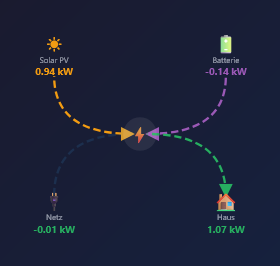
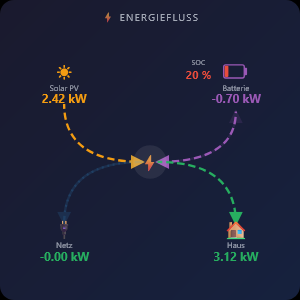
.

diff --git a/widgets/vis-2-widgets-sigenergy/js/vis-2-widgets-sigenergy.js b/widgets/vis-2-widgets-sigenergy/js/vis-2-widgets-sigenergy.js
@@ -2,7 +2,7 @@
     ioBroker.vis vis-2-widgets-sigenergy — Widget-Set
     4 Widgets: Energiefluss · Akku-Status · Echtzeit-Leistung · Statistiken
 
-    version: "1.5.1"
+    version: "1.5.2"
     Copyright 2026 ssbingo [email redacted]
 */
 "use strict";
@@ -39,7 +39,7 @@ if (typeof systemDictionary !== "undefined") {
 }
 
 vis.binds["vis-2-widgets-sigenergy"] = {
-    version: "1.5.1",
+    version: "1.5.2",
 
     showVersion: function () {
         if (vis.binds["vis-2-widgets-sigenergy"].version) {

diff --git a/README.md b/README.md
@@ -129,6 +129,10 @@ The horizontal backbone line and the vertical drop lines show animated dashes th
 | sig_darkmode | checkbox | true | Dark / Light mode |
 | oid_micro1 … oid_micro20 | OID | — | Anchor OID per device (e.g. sigenergy.0.sigenmicro.11.outputPower) |
 
+![SigenMicro Übersicht — Übersichts-Tab](img/widget-microinverter_01.png)
+
+![SigenMicro Übersicht — Detail-Tab](img/widget-microinverter_02.png)
+
 **OIDs (per device, prefix sigenergy.0.sigenmicro.<slaveId>):**
 modelType, serialNumber, firmwareVersion, runningState, outputPower, gridFrequency, temperature, mppt1Voltage, mppt1Current, mppt1Power, mppt2Voltage, mppt2Current, mppt2Power, dailyYield, totalYield
 
@@ -138,6 +142,10 @@ modelType, serialNumber, firmwareVersion, runningState, outputPower, gridFrequen
 All widgets support a **light and dark mode**, switchable via the widget setting `Dark mode`.
 
 ## Changelog
+### 1.5.2 (2026-03-17)
+* (ssbingo) Widget screenshots added: SigenMicro Overview (widget-microinverter_01.png, widget-microinverter_02.png)
+* (ssbingo) Energy Flow screenshot updated (widget-energiefluss.png)
+
 ### 1.5.1 (2026-03-17)
 * (ssbingo) Bugfix: Widget 8 code placed correctly inside vis.binds object — all widgets visible again
 

diff --git a/doc/de/README.md b/doc/de/README.md
@@ -129,6 +129,10 @@ Die waagerechte Backbone-Linie und die senkrechten Stichleitungen zeigen animier
 | sig_darkmode | Checkbox | true | Dunkel- / Hellmodus |
 | oid_micro1 … oid_micro20 | OID | — | Anker-OID je Gerät (z.B. sigenergy.0.sigenmicro.11.outputPower) |
 
+![SigenMicro Übersicht — Übersichts-Tab](../../img/widget-microinverter_01.png)
+
+![SigenMicro Übersicht — Detail-Tab](../../img/widget-microinverter_02.png)
+
 **OIDs (je Gerät, Präfix sigenergy.0.sigenmicro.<slaveId>):**
 modelType, serialNumber, firmwareVersion, runningState, outputPower, gridFrequency, temperature, mppt1Voltage, mppt1Current, mppt1Power, mppt2Voltage, mppt2Current, mppt2Power, dailyYield, totalYield
 
@@ -138,6 +142,10 @@ modelType, serialNumber, firmwareVersion, runningState, outputPower, gridFrequen
 Alle Widgets unterstützen einen **Hell- und Dunkelmodus**, der über die Widget-Einstellung `Dunkelmodus` umgeschaltet werden kann.
 
 ## Changelog
+### 1.5.2 (2026-03-17)
+* (ssbingo) Widget-Screenshots ergänzt: SigenMicro Übersicht (widget-microinverter_01.png, widget-microinverter_02.png)
+* (ssbingo) Energiefluss-Screenshot aktualisiert (widget-energiefluss.png)
+
 ### 1.5.1 (2026-03-17)
 * (ssbingo) Bugfix: Widget 8 code placed correctly inside vis.binds object — all widgets visible again
 

diff --git a/doc/es/README.md b/doc/es/README.md
@@ -119,6 +119,10 @@ Vista general y detallada de todos los microinversores SigenMicro en el bus Modb
 Todos los widgets admiten un **modo claro y oscuro**, conmutable mediante el ajuste de widget `Modo oscuro`.
 
 ## Changelog
+### 1.5.2 (2026-03-17)
+* (ssbingo) Capturas de pantalla de widgets añadidas: vista general SigenMicro
+* (ssbingo) Captura de flujo de energía actualizada
+
 ### 1.5.1 (2026-03-17)
 * (ssbingo) Bugfix: Widget 8 code placed correctly inside vis.binds object — all widgets visible again
 

diff --git a/doc/fr/README.md b/doc/fr/README.md
@@ -118,6 +118,10 @@ Vue d'ensemble et vue détaillée de tous les micro-onduleurs SigenMicro sur le 
 Tous les widgets prennent en charge un **mode clair et sombre**, commutable via le paramètre de widget `Mode sombre`.
 
 ## Changelog
+### 1.5.2 (2026-03-17)
+* (ssbingo) Captures d'écran des widgets ajoutées : vue d'ensemble SigenMicro
+* (ssbingo) Capture du flux d'énergie mise à jour
+
 ### 1.5.1 (2026-03-17)
 * (ssbingo) Bugfix: Widget 8 code placed correctly inside vis.binds object — all widgets visible again
 

diff --git a/doc/it/README.md b/doc/it/README.md
@@ -119,6 +119,10 @@ Panoramica e visualizzazione dettagliata di tutti i micro-inverter SigenMicro su
 Tutti i widget supportano una **modalità chiara e scura**, commutabile tramite l'impostazione widget `Modalità scura`.
 
 ## Changelog
+### 1.5.2 (2026-03-17)
+* (ssbingo) Screenshot widget aggiunti: panoramica SigenMicro
+* (ssbingo) Screenshot flusso energetico aggiornato
+
 ### 1.5.1 (2026-03-17)
 * (ssbingo) Bugfix: Widget 8 code placed correctly inside vis.binds object — all widgets visible again
 

diff --git a/doc/nl/README.md b/doc/nl/README.md
@@ -118,6 +118,10 @@ Overzicht en detailweergave van alle SigenMicro micro-omvormers op de Modbus-bus
 Alle widgets ondersteunen een **lichte en donkere modus**, die kan worden omgeschakeld via de widget-instelling `Donkere modus`.
 
 ## Changelog
+### 1.5.2 (2026-03-17)
+* (ssbingo) Widget-screenshots toegevoegd: SigenMicro overzicht
+* (ssbingo) Schermafbeelding energiestroom bijgewerkt
+
 ### 1.5.1 (2026-03-17)
 * (ssbingo) Bugfix: Widget 8 code placed correctly inside vis.binds object — all widgets visible again
 

diff --git a/doc/pl/README.md b/doc/pl/README.md
@@ -119,6 +119,10 @@ Przegląd i widok szczegółowy wszystkich mikrofalowników SigenMicro na szynie
 Wszystkie widżety obsługują **tryb jasny i ciemny**, przełączany przez ustawienie widżetu `Tryb ciemny`.
 
 ## Changelog
+### 1.5.2 (2026-03-17)
+* (ssbingo) Dodano zrzuty ekranu widgetów: przegląd SigenMicro
+* (ssbingo) Zrzut przepływu energii zaktualizowany
+
 ### 1.5.1 (2026-03-17)
 * (ssbingo) Bugfix: Widget 8 code placed correctly inside vis.binds object — all widgets visible again
 

diff --git a/doc/pt/README.md b/doc/pt/README.md
@@ -119,6 +119,10 @@ Visão geral e detalhe de todos os micro-inversores SigenMicro no barramento Mod
 Todos os widgets suportam um **modo claro e escuro**, comutável através da definição do widget `Modo escuro`.
 
 ## Changelog
+### 1.5.2 (2026-03-17)
+* (ssbingo) Capturas de ecrã de widgets adicionadas: visão geral SigenMicro
+* (ssbingo) Captura do fluxo de energia atualizada
+
 ### 1.5.1 (2026-03-17)
 * (ssbingo) Bugfix: Widget 8 code placed correctly inside vis.binds object — all widgets visible again
 

diff --git a/doc/ru/README.md b/doc/ru/README.md
@@ -118,6 +118,10 @@
 Все виджеты поддерживают **светлый и тёмный режим**, переключаемый через настройку виджета `Тёмный режим`.
 
 ## Changelog
+### 1.5.2 (2026-03-17)
+* (ssbingo) Добавлены скриншоты виджетов: обзор SigenMicro
+* (ssbingo) Скриншот потока энергии обновлён
+
 ### 1.5.1 (2026-03-17)
 * (ssbingo) Bugfix: Widget 8 code placed correctly inside vis.binds object — all widgets visible again
 